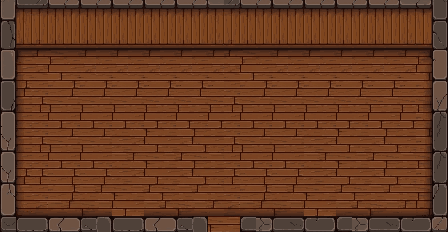
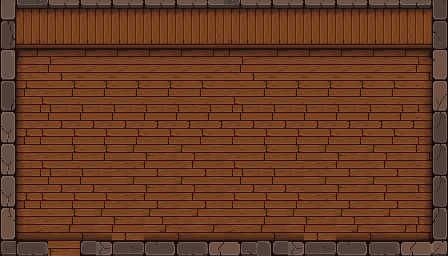
ㄱ자 바 카운터 + 주방 구역 추가
- 뒷벽 주방(타일 바닥, 선반·냉장고·화구) 앞에 긴 바 + 벽까지 꺾인 카운터
- 바 앞 스툴, 오른쪽 끝 계산대와 주방 출입구, 바 위 병·양념통
- 완성 요리는 바 위에 올려 두고 서빙 담당이 가져감, 직원 없으면 사장님이 출입구로 나와 서빙
- 방 높이 256으로 늘리고 입구를 왼쪽 아래로 이동, 테이블 두 줄 사이 통로로 손님 이동

Claude-Session: https://claude.ai/code/session_0158wwMB9e4mDcVmGF2JCoym

diff --git a/js/business.js b/js/business.js
@@ -19,14 +19,20 @@ const CHEF_SWEEP_TIME = 1.5;
 const OPEN_HOUR = 11, CLOSE_HOUR = 21;
 
 // ---------- 방 좌표 (1배 픽셀) ----------
-export const RW = 448, RH = 232;
-const BAR_H = 30;                 // 하단 UI 바가 덮는 높이
-const KITCHEN_Y = 90;             // 주방 기구 바닥선
-const HALL = { x0: 24, x1: 424, y0: 108, y1: 212 };
-const DOOR = { x: 224, y: 228 };
-const PASS = { x: 132, y: 100 };  // 식기 반납대 = 완성 요리 대기
-const CHEF_HOME = { x: 86, y: 100 };
-const HALL_TOP = 104;             // 홀 이동 통로
+export const RW = 448, RH = 256;
+const BAR_H = 26;                 // 하단 UI 바가 덮는 높이
+const KITCHEN_Y = 84;             // 주방 기구 바닥선 (뒷벽 앞)
+const KITCHEN = { x0: 41, x1: 300, y0: 48, y1: 100 };            // 주방 타일 바닥
+const BAR = { x0: 28, x1: 300, top: 98, base: 121, vx1: 40, vy0: 50 }; // ㄱ자 바 (긴 카운터 + 벽까지 꺾인 카운터)
+const KDOOR_X = 308;              // 주방 출입구 (바 오른쪽 끝)
+const HALL = { x0: 24, x1: 424, y0: 140, y1: 232 };
+const DOOR = { x: 64, y: 252 };   // 왼쪽 아래 입구
+const AISLE_Y = 186;              // 테이블 두 줄 사이 통로
+const PASS = { x: 262, y: 137 };  // 바 위 완성 요리를 가져가는 자리
+const CHEF_HOME = { x: 160, y: 94 };
+const HALL_TOP = 137;             // 바 앞 통로
+const STOOLS = [70, 110, 150, 190, 230];
+const LAMPS = [120, 340];
 
 const rand = (a, b) => a + Math.random() * (b - a);
 const pick = (a) => a[Math.floor(Math.random() * a.length)];
@@ -116,9 +122,9 @@ export class Business {
     const sv = staffOf(this.state, 'server');
     const gd = staffOf(this.state, 'guard');
     const keep = (old, def) => (old && old.def?.id === def?.id ? old : null);
-    this.cleaner = cl ? keep(this.cleaner, cl) || Object.assign(this.actor(cl.id, { x: 176, y: 100 }, cl.speed * 0.5, 'single'), { def: cl, home: { x: 176, y: 100 }, mode: 'idle', tasks: [] }) : null;
-    this.server = sv ? keep(this.server, sv) || Object.assign(this.actor(`server${sv.tier}`, { x: 200, y: 102 }, sv.speed * 0.5, 'dir4'), { def: sv, home: { x: 200, y: 102 }, mode: 'idle' }) : null;
-    this.guard = gd ? keep(this.guard, gd) || Object.assign(this.actor(gd.id, { x: 196, y: 204 }, gd.speed * 0.5, 'single'), { def: gd, home: { x: 196, y: 204 }, mode: 'idle' }) : null;
+    this.cleaner = cl ? keep(this.cleaner, cl) || Object.assign(this.actor(cl.id, { x: 372, y: 128 }, cl.speed * 0.5, 'single'), { def: cl, home: { x: 372, y: 128 }, mode: 'idle', tasks: [] }) : null;
+    this.server = sv ? keep(this.server, sv) || Object.assign(this.actor(`server${sv.tier}`, { x: 338, y: 134 }, sv.speed * 0.5, 'dir4'), { def: sv, home: { x: 338, y: 134 }, mode: 'idle' }) : null;
+    this.guard = gd ? keep(this.guard, gd) || Object.assign(this.actor(gd.id, { x: 92, y: 228 }, gd.speed * 0.5, 'single'), { def: gd, home: { x: 92, y: 228 }, mode: 'idle' }) : null;
     this.patienceMult = sv ? sv.patienceMult : 1;
     this.staffList = [this.cleaner, this.server, this.guard].filter(Boolean);
   }
@@ -128,7 +134,7 @@ export class Business {
   }
 
   guestActor(rowdy) {
-    const a = { x: DOOR.x + rand(-4, 4), y: RH + 18, path: [], speed: rand(52, 64), t: Math.random() * 10, dir: 'back', face: 1 };
+    const a = { x: DOOR.x + rand(-3, 3), y: RH + 18, path: [], speed: rand(52, 64), t: Math.random() * 10, dir: 'back', face: 1 };
     a.kind = 'single';
     a.sheet = pick(rowdy ? ROWDY_TYPES : GUEST_TYPES);
     return a;
@@ -155,7 +161,7 @@ export class Business {
     const wrap = this.pxCanvas.parentElement;
     const W = wrap.clientWidth, Hh = wrap.clientHeight;
     // 하단 바는 방 아래쪽 돌벽 위에 겹쳐도 되므로 방 높이 기준으로 맞춤
-    const fit = Math.min(W / RW, Hh / (RH + 6));
+    const fit = Math.min(W / RW, Hh / RH);
     // 정수배가 원칙, 단 내림 때문에 화면이 20% 넘게 비면 소수배 허용 (1280×800 크롬북 등)
     const s = Math.floor(fit) >= 2 && Math.floor(fit) / fit >= 0.8 ? Math.floor(fit) : Math.max(1, fit);
     this.s = s;
@@ -256,11 +262,21 @@ export class Business {
   }
 
   entryPath(seat) {
-    return [{ x: DOOR.x, y: DOOR.y - 6 }, { x: DOOR.x, y: HALL.y1 - 2 }, { x: seat.x, y: HALL.y1 - 2 }, seat];
+    return [{ x: DOOR.x, y: 238 }, { x: DOOR.x, y: AISLE_Y }, { x: seat.x, y: AISLE_Y }, seat];
   }
 
   exitPath(from) {
-    return [{ x: from.x, y: HALL.y1 - 2 }, { x: DOOR.x, y: HALL.y1 - 2 }, { x: DOOR.x, y: DOOR.y - 6 }, { x: DOOR.x + rand(-4, 4), y: RH + 24 }];
+    return [{ x: from.x, y: AISLE_Y }, { x: DOOR.x, y: AISLE_Y }, { x: DOOR.x, y: 238 }, { x: DOOR.x + rand(-3, 3), y: RH + 24 }];
+  }
+
+  // 사장님 동선: 주방 안 ↔ 홀은 바 오른쪽 출입구로만
+  inKitchen(p) { return p.y < BAR.base - 2 && p.x < KDOOR_X - 2; }
+  route(a, dest) {
+    const ai = this.inKitchen(a), di = this.inKitchen(dest);
+    if (ai && di) return [{ x: a.x, y: CHEF_HOME.y }, dest];
+    if (ai) return [{ x: a.x, y: CHEF_HOME.y }, { x: KDOOR_X, y: CHEF_HOME.y }, { x: KDOOR_X, y: HALL_TOP }, { x: dest.x, y: HALL_TOP }, dest];
+    if (di) return [{ x: a.x, y: HALL_TOP }, { x: KDOOR_X, y: HALL_TOP }, { x: KDOOR_X, y: CHEF_HOME.y }, dest];
+    return [{ x: a.x, y: HALL_TOP }, { x: dest.x, y: HALL_TOP }, dest];
   }
 
   // ---------- 손님 ----------
@@ -353,10 +369,10 @@ export class Business {
           const t = ch.task.t;
           if (!t.trash) { t.reserved = false; break; }
           ch.mode = 'toTrash';
-          ch.path = [{ x: ch.x, y: HALL_TOP }, t.serve];
+          ch.path = this.route(ch, t.serve);
         } else {
           ch.mode = 'toStove';
-          ch.path = dist(ch, CHEF_HOME) > 2 ? [{ x: ch.x, y: HALL_TOP }, CHEF_HOME] : [];
+          ch.path = dist(ch, CHEF_HOME) > 2 ? this.route(ch, CHEF_HOME) : [];
         }
         break;
       case 'toStove':
@@ -374,7 +390,7 @@ export class Business {
           if (this.server) { this.pass.push(ch.task); ch.mode = 'idle'; } else {
             ch.carry = ch.task;
             ch.mode = 'delivering';
-            ch.path = [{ x: ch.x, y: HALL_TOP }, ch.task.c.table.serve];
+            ch.path = this.route(ch, ch.task.c.table.serve);
           }
         }
         break;
@@ -383,7 +399,7 @@ export class Business {
           this.serve(ch.carry.c, ch.carry.grade);
           ch.carry = null;
           ch.mode = 'returning';
-          ch.path = [{ x: ch.x, y: HALL_TOP }, CHEF_HOME];
+          ch.path = this.route(ch, CHEF_HOME);
         }
         break;
       case 'toTrash':
@@ -395,7 +411,7 @@ export class Business {
         if (ch.sweepT >= CHEF_SWEEP_TIME) {
           this.finishClean(ch.task.t);
           ch.mode = 'returning';
-          ch.path = [{ x: ch.x, y: HALL_TOP }, CHEF_HOME];
+          ch.path = this.route(ch, CHEF_HOME);
         }
         break;
       case 'returning':
@@ -456,7 +472,7 @@ export class Business {
     switch (sv.mode) {
       case 'idle':
         sv.idleDir = 'front';
-        if (this.pass.length) { sv.mode = 'toPass'; sv.path = [{ x: sv.x, y: HALL_TOP }, PASS]; }
+        if (this.pass.length) { sv.mode = 'toPass'; sv.path = [{ x: sv.x, y: HALL_TOP }, PASS]; sv.idleDir = 'back'; }
         break;
       case 'toPass':
         if (arrived) {
@@ -492,7 +508,7 @@ export class Business {
         const c = this.customers.find((x) => x.state === 'rowdy' && !x.handledBy && this.busy?.target !== x);
         if (!c) break;
         c.handledBy = gd; gd.target = c; gd.mode = 'going';
-        gd.path = [{ x: gd.x, y: HALL.y1 - 2 }, { x: c.table.serve.x, y: c.table.serve.y }];
+        gd.path = [{ x: gd.x, y: AISLE_Y }, { x: c.table.serve.x, y: AISLE_Y }, { x: c.table.serve.x, y: c.table.serve.y }];
         this.log(`🛡 ${gd.def.name} 출동!`);
         break;
       }
@@ -651,7 +667,7 @@ export class Business {
   }
 
   // ---------- 이펙트 ----------
-  panPos() { const s = px('stove'); return { x: 92, y: KITCHEN_Y - (s ? s.height : 30) + 6 }; }
+  panPos() { const s = px('stove'); return { x: 166, y: KITCHEN_Y - (s ? s.height : 30) + 6 }; }
   steam(strong) { const p = this.panPos(); this.particles.push({ kind: 'steam', x: p.x + rand(-4, 4), y: p.y, vx: rand(-1, 1), vy: -rand(6, 12), life: 0, max: strong ? 1 : 1.5 }); }
   sparkle(x, y, n) { for (let i = 0; i < n; i++) this.particles.push({ kind: 'spark', x: x + rand(-10, 10), y: y + rand(-6, 4), vx: rand(-6, 6), vy: -rand(4, 14), life: 0, max: rand(0.5, 1) }); }
   smoke(x, y, n) { for (let i = 0; i < n; i++) this.particles.push({ kind: 'smoke', x: x + rand(-6, 6), y: y + rand(-3, 3), vx: rand(-3, 3), vy: -rand(6, 12), life: 0, max: rand(0.8, 1.4) }); }
@@ -674,19 +690,19 @@ export class Business {
     const R = room();
     if (R) g.drawImage(R, this.ox, this.oy);
 
-    // 벽 장식
+    // 주방 타일 바닥 + 벽 장식
+    g.drawImage(this.kitchenTiles(), KITCHEN.x0 + this.ox, KITCHEN.y0 + this.oy);
     this.spr('chalkboard', 236, 44);
-    this.spr('lantern', 180, 34);
-    this.spr('lantern', 300, 34);
+    for (const lx of LAMPS) this.spr('lantern', lx, 34);
 
     const items = [];
     const add = (y, fn) => items.push({ y, fn });
-    add(KITCHEN_Y, () => this.spr('fridge', 36, KITCHEN_Y));
-    add(KITCHEN_Y, () => this.spr('stove', 86, KITCHEN_Y));
-    add(KITCHEN_Y, () => this.spr('rack', 132, KITCHEN_Y));
-    add(KITCHEN_Y, () => this.spr('counter_a', 330, KITCHEN_Y + 4));
-    add(KITCHEN_Y, () => this.spr('counter_b', 368, KITCHEN_Y + 4));
-    add(KITCHEN_Y, () => this.spr('pos', 410, KITCHEN_Y + 4));
+    add(KITCHEN_Y, () => this.spr('rack', 72, KITCHEN_Y));
+    add(KITCHEN_Y, () => this.spr('fridge', 112, KITCHEN_Y));
+    add(KITCHEN_Y, () => this.spr('stove', 160, KITCHEN_Y));
+    add(BAR.base, () => this.drawBar());
+    for (const x of STOOLS) add(134, () => g.drawImage(this.stool(), x - 6 + this.ox, 134 - 14 + this.oy));
+    add(112, () => this.spr('pos', 330, 112));
     for (const tb of this.tables) add(tb.base, () => this.spr(ITEM_PX[tb.type], tb.cx, tb.base));
     for (const s of this.seats) {
       if (s.dish) add(s.base + 0.5, () => this.spr(s.dish.sprite, s.trashPos.x, s.trashPos.y + 4));
@@ -702,8 +718,6 @@ export class Business {
     items.sort((a, b) => a.y - b.y);
     for (const it of items) it.fn();
 
-    // 반납대 위 대기 요리
-    this.pass.forEach((task, i) => this.spr(task.grade === 1 ? 'dish_burnt' : DISH_PX[task.c.menuId], 126 + (i % 3) * 7, 66 - Math.floor(i / 3) * 5));
 
     this.drawParticles(dt);
     this.drawLight();
@@ -711,6 +725,73 @@ export class Business {
     if (this.mode === 'business') for (const c of this.customers) this.drawCustomerUI(c);
     this.drawBars();
     this.drawUI(dt);
+  }
+
+  // ---------- 바 (팔레트는 PixelLab 카운터에서 추출) ----------
+  kitchenTiles() {
+    if (this._tiles) return this._tiles;
+    const w = KITCHEN.x1 - KITCHEN.x0, h = KITCHEN.y1 - KITCHEN.y0;
+    const c = document.createElement('canvas'); c.width = w; c.height = h;
+    const g = c.getContext('2d');
+    for (let y = 0; y < h; y += 8) for (let x = 0; x < w; x += 8) {
+      g.fillStyle = ((x + y) / 8) % 2 ? '#d9cbb0' : '#e8dcc4'; g.fillRect(x, y, 8, 8);
+      g.fillStyle = '#b8a888'; g.fillRect(x, y + 7, 8, 1); g.fillRect(x + 7, y, 1, 8);
+    }
+    const sh = g.createLinearGradient(0, 0, 0, 10); sh.addColorStop(0, 'rgba(40,20,5,0.45)'); sh.addColorStop(1, 'rgba(40,20,5,0)');
+    g.fillStyle = sh; g.fillRect(0, 0, w, 10);
+    return (this._tiles = c);
+  }
+
+  barCanvas() {
+    if (this._bar) return this._bar;
+    const c = document.createElement('canvas'); c.width = RW; c.height = BAR.base + 3;
+    const g = c.getContext('2d');
+    const P = { O: '#1a0e08', TH: '#c07e4c', T1: '#a3633a', T2: '#8e5530', LIP: '#734223', F1: '#6b3c21', F2: '#5a321c', FD: '#3e2214' };
+    const r = (col, x, y, w, h) => { g.fillStyle = col; g.fillRect(x, y, w, h); };
+    const { x0, x1, top, base, vx1, vy0 } = BAR;
+    // 벽까지 꺾인 카운터 (윗면)
+    r(P.O, x0 - 1, vy0, vx1 - x0 + 2, top - vy0 + 1);
+    r(P.T1, x0, vy0, vx1 - x0, top - vy0);
+    r(P.TH, x0, vy0, 1, top - vy0); r(P.T2, vx1 - 1, vy0, 1, top - vy0);
+    for (let y = vy0 + 12; y < top; y += 14) r(P.T2, x0, y, vx1 - x0, 1);
+    // 긴 카운터
+    r(P.O, x0 - 1, top - 1, x1 - x0 + 2, base - top + 1);
+    r(P.T1, x0, top, x1 - x0, 10);
+    r(P.TH, x0, top, x1 - x0, 1);
+    r(P.T2, x0, top + 9, x1 - x0, 1);
+    for (let x = x0 + 30; x < x1; x += 34) r(P.T2, x, top + 1, 1, 8);
+    r(P.LIP, x0, top + 10, x1 - x0, 1);
+    r(P.FD, x0, top + 11, x1 - x0, 1);
+    r(P.F1, x0, top + 12, x1 - x0, base - top - 13);
+    for (let x = x0 + 4; x < x1; x += 8) r(P.FD, x, top + 12, 1, base - top - 13);
+    r(P.F2, x0, base - 3, x1 - x0, 2);
+    r(P.O, x0 - 1, base - 1, x1 - x0 + 2, 1);
+    g.clearRect(x1, top - 1, 1, 1); g.clearRect(x1, base - 1, 1, 1);
+    r('rgba(10,5,2,0.35)', x0, base, x1 - x0, 2);
+    // 바 위 소품: 병, 양념통
+    const bottle = (x, col) => { r(P.O, x - 1, top - 5, 5, 9); r(col, x, top - 4, 3, 7); r('#f3e2c0', x + 1, top - 3, 1, 2); r(P.O, x, top - 8, 3, 3); r(col, x + 1, top - 7, 1, 2); };
+    bottle(46, '#3d7a3a'); bottle(52, '#6b3c21'); bottle(58, '#3d6fb0');
+    r(P.O, 70, top - 1, 9, 6); r('#e8dcc4', 71, top, 7, 4); r('#e0533d', 72, top + 1, 2, 2); r('#ffd23f', 75, top + 1, 2, 2);
+    return (this._bar = c);
+  }
+
+  stool() {
+    if (this._stool) return this._stool;
+    const rows = [
+      '..OOOOOOOO..', '.OHHHHHHHHO.', 'OLLLLLLLLLLO', 'OLLLLLLLLLLO', '.OMMMMMMMMO.', '..OOOOOOOO..',
+      '..OD....DO..', '..OD....DO..', '..ODOOOODO..', '..ODDDDDDO..', '..OD....DO..', '..OD....DO..', '..OD....DO..', '..OO....OO..',
+    ];
+    const pal = { O: '#1a0e08', H: '#c07e4c', L: '#a3633a', M: '#734223', D: '#6b3c21' };
+    const c = document.createElement('canvas'); c.width = 12; c.height = rows.length;
+    const g = c.getContext('2d');
+    rows.forEach((row, y) => [...row].forEach((ch, x) => { if (pal[ch]) { g.fillStyle = pal[ch]; g.fillRect(x, y, 1, 1); } }));
+    return (this._stool = c);
+  }
+
+  drawBar() {
+    this.px.drawImage(this.barCanvas(), this.ox, this.oy);
+    // 바 위에 올려 둔 완성 요리 (서빙 담당이 가져감)
+    this.pass.forEach((task, i) => this.spr(task.grade === 1 ? 'dish_burnt' : DISH_PX[task.c.menuId], 240 + (i % 4) * 14, BAR.top + 8 - Math.floor(i / 4) * 4));
   }
 
   drawTrash(s) {
@@ -783,7 +864,7 @@ export class Business {
     const g = this.px;
     g.save();
     g.globalCompositeOperation = 'lighter';
-    for (const lx of [180, 300]) {
+    for (const lx of LAMPS) {
       const gr = g.createRadialGradient(lx + this.ox, 40 + this.oy, 2, lx + this.ox, 40 + this.oy, 70);
       gr.addColorStop(0, 'rgba(255,180,90,0.20)'); gr.addColorStop(1, 'rgba(255,180,90,0)');
       g.fillStyle = gr; g.fillRect(lx - 70 + this.ox, this.oy, 140, 110);

diff --git a/css/style.css b/css/style.css
@@ -119,10 +119,11 @@ img.pximg { image-rendering: pixelated; vertical-align: middle; }
 #bottomBar { position: absolute; left: 50%; bottom: 6px; transform: translateX(-50%); max-width: calc(100vw - 12px); }
 .bb-row {
   display: flex; align-items: center; gap: 6px;
-  border-style: solid; border-width: calc(9px * var(--u));
-  border-image: url('../assets/px/ui_panel.png') 16 fill / calc(9px * var(--u)) stretch;
+  border-style: solid; border-width: calc(7px * var(--u));
+  border-image: url('../assets/px/ui_panel.png') 16 fill / calc(7px * var(--u)) stretch;
   image-rendering: pixelated; padding: 0 4px;
 }
+.bb-row .px-btn { min-height: calc(17px * var(--u)); }
 .bb-row .px-btn { font-size: 15px; }
 .px-bar.time { width: 220px; padding: 0; }
 .px-bar.time i { display: block; height: calc(5px * var(--u)); width: 100%; background: repeating-linear-gradient(90deg, #ffc83d 0 6px, #f0a020 6px 12px); transition: width 0.2s linear; }
